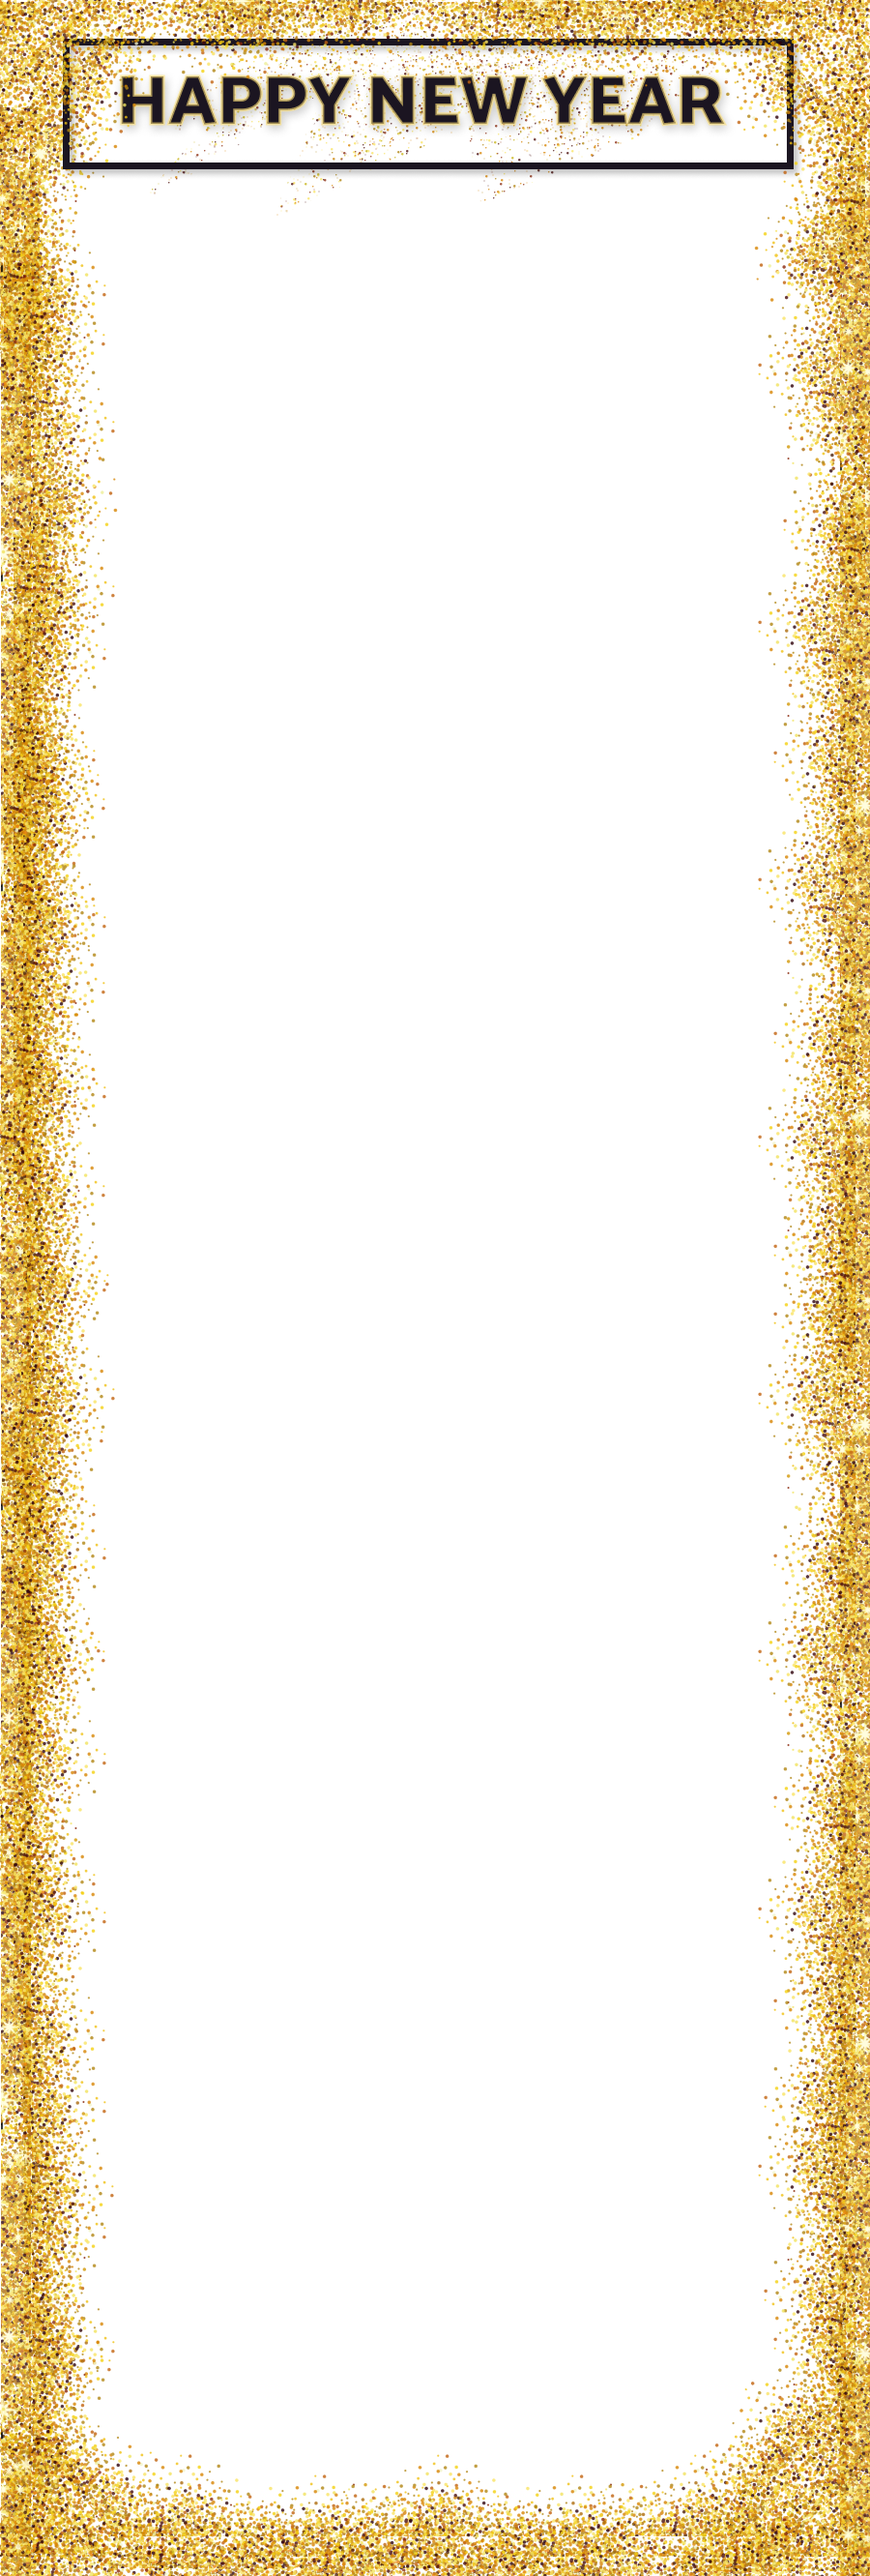
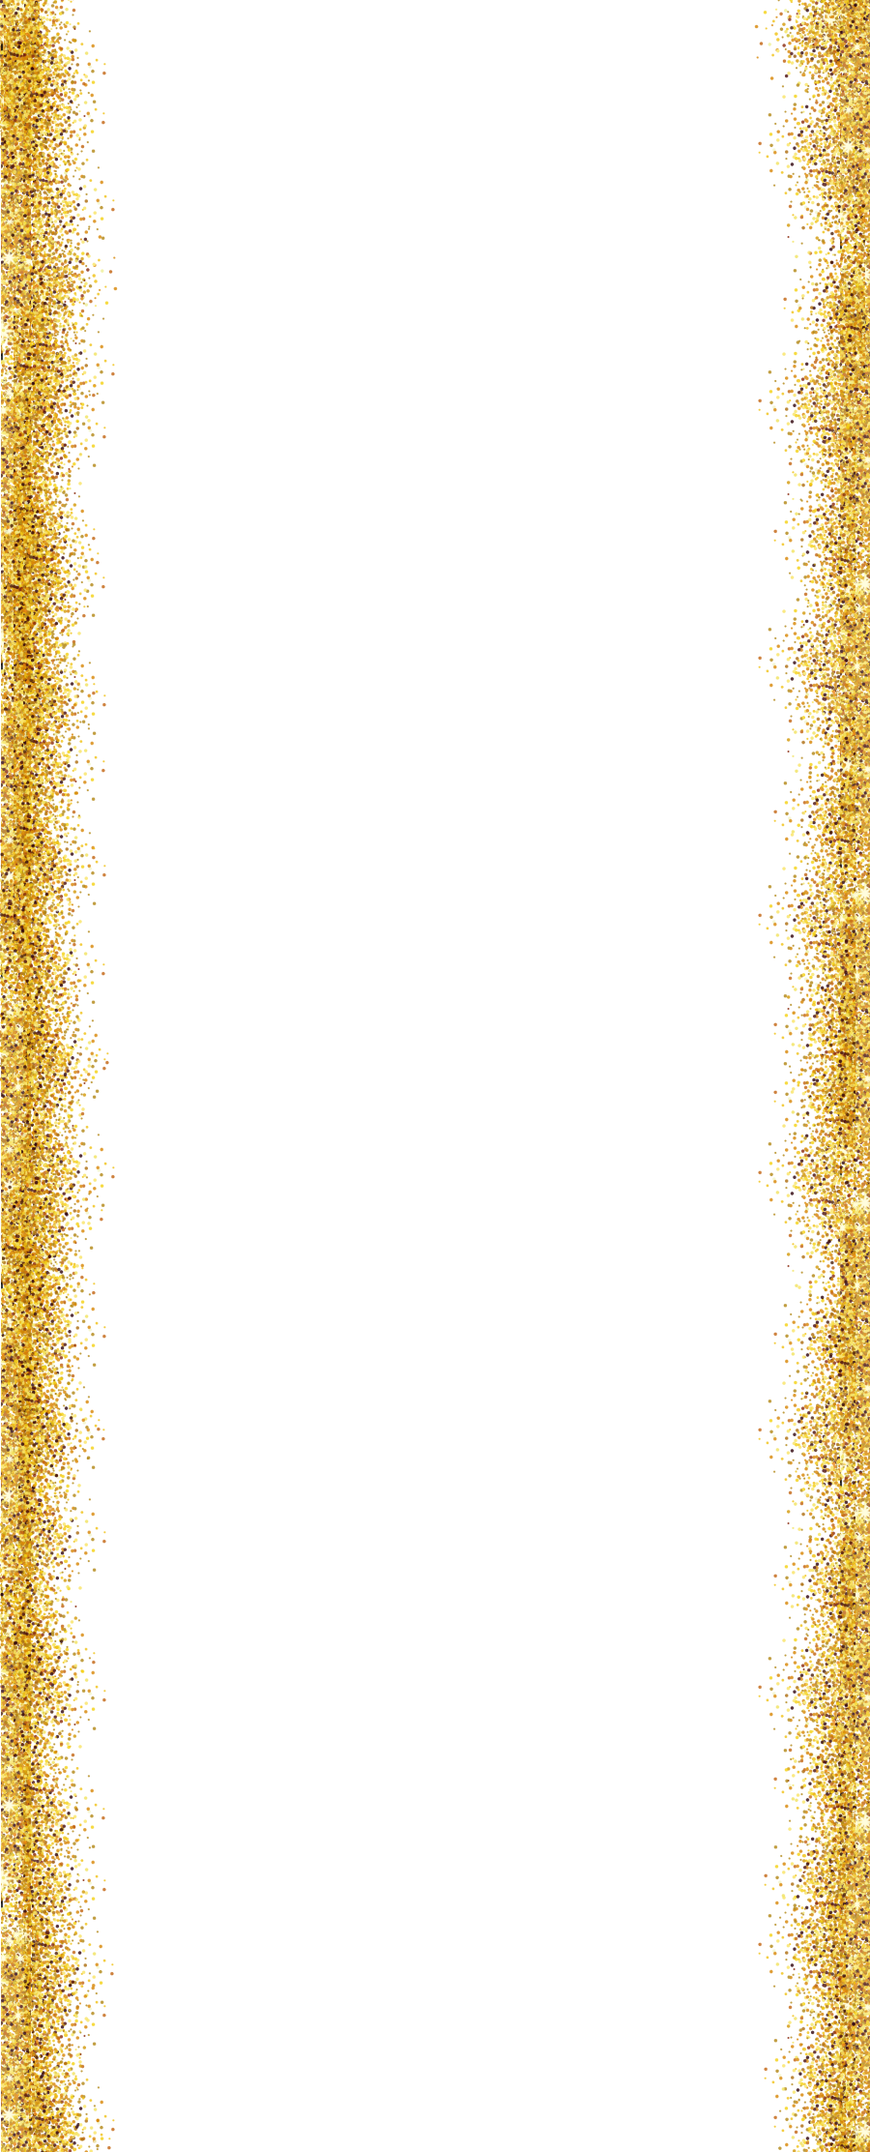
update

Changed region(s): [[0.0, 0.0, 1.0, 1.0]]

diff --git a/PlayingAround/playing-around/strategicmilestones.html b/PlayingAround/playing-around/strategicmilestones.html
@@ -10,20 +10,20 @@
             }
             p{
                 font-family: 'roboto', sans-serif;
-                font-size: 14pt;
+                font-size: 12pt;
                 font-weight: 400;
                 padding: 8px 0;
                 color: #2c2c2c;
             }
             h3{
-                font-size: 18pt;
+                font-size: 16pt;
                 font-weight: 600;
                 padding-top: 32px;
                 color: #251001;
             }
             h4{
-                font-size: 16pt;
-                font-weight: 500;
+                font-size: 13pt;
+                font-weight: 600;
                 padding-top: 24px;
                 color: #251001;
             }
@@ -42,10 +42,12 @@
     </head>    
     <body>
         <div style="max-width: 900px; padding: 1em 4em 1em 5em;">
+        <img src="https://zoerem.github.io/PlayingAround/PlayingAround/playing-around/images/background-imgTOP.png)">
+        </div>
         <div style="background-image: url(https://zoerem.github.io/PlayingAround/PlayingAround/playing-around/images/background-img.png);
         background-position: top center;
         background-repeat: no-repeat;
-        background-size:cover; padding: 13em 7em">
+        background-size:cover; padding: 1em 5em">
         <p>
             I hope this note finds you well and happy. I have had a lot of time to reflect this year on what I am grateful for and one of my greatest blessings has been good people like you that I have been privileged to get to know throughout my life. My greatest regret is that haven’t done a better job of staying in touch.
         </p>    
@@ -106,6 +108,9 @@
         <br>
         <a href="http://www.strategicmilestones.com">www.strategicmilestones.com</a>
     </div>
+    <div> 
+        <img src="https://zoerem.github.io/PlayingAround/PlayingAround/playing-around/images/background-imgBTM.png)">
+
     </div>
         </body>
 
